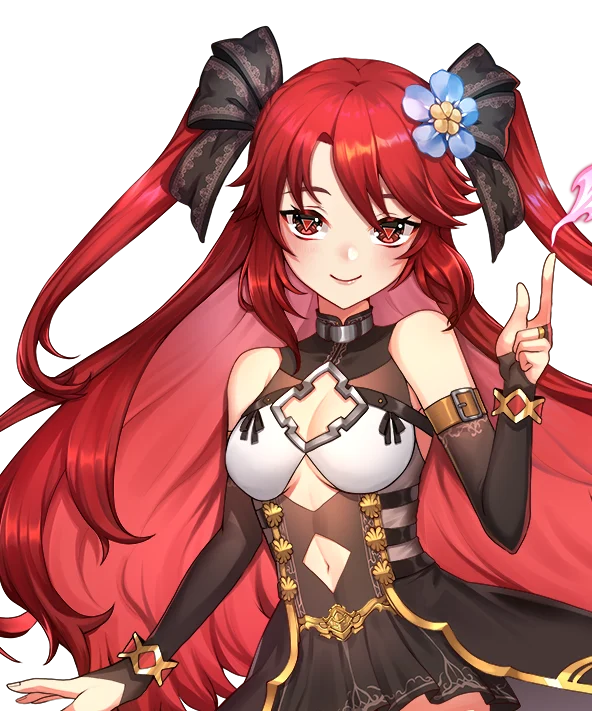
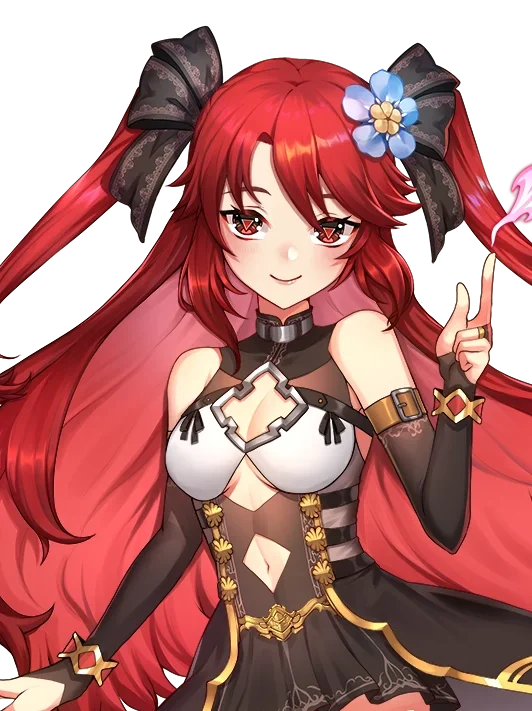
Recentre Luxia face and half-body
Claude-Session: https://claude.ai/code/session_0182ETGqkY6VZC2ACV9rE9Mb

diff --git a/index.html b/index.html
@@ -949,7 +949,7 @@ var TALENTS = [
   { id:'hoku', halves:['talent-hoku-half.webp'], card:'talent-hoku-half.webp', img:'talent-hoku.webp?v=3', face:'talent-hoku-face.webp?v=7',  name:'Hoku', short:'Hoku', ini:'HK', type:'VTuber', aff:{name:'Polygon', logo:'logos/polygon-mark.png'}, langs:['th','en'], color:'#E9DFC8', tags:['#Singing','#FreeTalk','#Gaming','#Horror'], works:['promo','review','cover','collab','dub'], links:[['YouTube',119655,'https://www.youtube.com/@HokuPLG'],['TikTok',35000,'https://www.tiktok.com/@hokuplg'],['Facebook',23440,'http://facebook.com/HokuPolygon'],['X',32083,'http://twitter.com/HokuPLG']], quote:['โฮคุ นกฮูกเปี่ยมไมตรีที่ชอบเรื่องผีและหาทำ','Hoku, a friendly owl who loves ghost stories and always finds something to get into.'] },
   { id:'lucene', halves:['talent-lucene-half.webp'], card:'talent-lucene-half.webp', img:'talent-lucene.webp', face:'talent-lucene-face.webp?v=7',  name:'Lucene', short:'Lucene', ini:'LC', type:'VTuber', aff:{name:'Polygon', logo:'logos/polygon-mark.png'}, langs:['th','en'], color:'#FDE2EE', tags:['#Singing','#FreeTalk','#Gaming','#Gacha'], works:['promo','review','cover','collab','dub'], links:[['YouTube',83400,'https://www.youtube.com/@LucenePLG'],['TikTok',24071,'https://www.tiktok.com/@plglucene'],['Facebook',20102,'https://www.facebook.com/LucenePolygon'],['X',19508,'https://x.com/LucenePLG']], quote:['ลูเซเน่ กระต่ายอนิเมะผู้เสกความสดใสและชอบเสี่ยงดวง💸','Lucene, an anime bunny who conjures up cheer and loves to try her luck 💸'] },
   { id:'lapine', halves:['talent-lapine-half.webp'], card:'talent-lapine-half.webp', img:'talent-lapine.webp', face:'talent-lapine-face.webp?v=7',  name:'Lapine', short:'Lapine', ini:'LP', type:'VTuber', aff:{name:'Polygon', logo:'logos/polygon-mark.png'}, langs:['th','en'], color:'#FFD9E4', tags:['#Singing','#FreeTalk','#Gaming'], works:['promo','review','cover','collab','dub'], links:[['YouTube',69355,'https://www.youtube.com/@LapinePLG'],['TikTok',8885,'https://www.tiktok.com/@lapineplg'],['Facebook',16150,'https://www.facebook.com/LapinePolygon'],['X',20482,'https://x.com/LapinePLG']], quote:['ลาพิเน่ กระต่ายสีชมพูที่คุณดูแล้วต้องกำหมัด','Lapine, the pink bunny so cute you will clench your fists.'] },
-  { id:'luxia', halves:['talent-luxia-half.webp'], card:'talent-luxia-half.webp', img:'talent-luxia.webp?v=3', face:'talent-luxia-face.webp?v=7',  name:'Luxia', short:'Luxia', ini:'LX', type:'VTuber', aff:{name:'Polygon', logo:'logos/polygon-mark.png'}, langs:['th'], color:'#E7E1F7', tags:['#Singing','#FreeTalk','#Gaming','#Drawing'], works:['promo','review','collab','dub'], links:[['YouTube',57079,'https://www.youtube.com/@LuxiaPLG'],['TikTok',15700,'https://www.tiktok.com/@luxiaplg'],['Facebook',12455,'https://www.facebook.com/LuxiaPolygon'],['X',16481,'https://x.com/LuxiaPLG']], quote:['ลูเซีย แม่ชีนักวาดผู้ไม่อาจหยุดความวายป่วง','Luxia, an artist nun who simply cannot stop the chaos.'] },
+  { id:'luxia', halves:['talent-luxia-half.webp?v=2'], card:'talent-luxia-half.webp?v=2', img:'talent-luxia.webp?v=3', face:'talent-luxia-face.webp?v=8',  name:'Luxia', short:'Luxia', ini:'LX', type:'VTuber', aff:{name:'Polygon', logo:'logos/polygon-mark.png'}, langs:['th'], color:'#E7E1F7', tags:['#Singing','#FreeTalk','#Gaming','#Drawing'], works:['promo','review','collab','dub'], links:[['YouTube',57079,'https://www.youtube.com/@LuxiaPLG'],['TikTok',15700,'https://www.tiktok.com/@luxiaplg'],['Facebook',12455,'https://www.facebook.com/LuxiaPolygon'],['X',16481,'https://x.com/LuxiaPLG']], quote:['ลูเซีย แม่ชีนักวาดผู้ไม่อาจหยุดความวายป่วง','Luxia, an artist nun who simply cannot stop the chaos.'] },
   { id:'riona', halves:['talent-riona-half.webp','talent-riona-2-half.webp'], card:'talent-riona-half.webp', img:'talent-riona.webp', face:'talent-riona-face.webp?v=7', forms:['talent-riona.webp','talent-riona-2.webp'],  name:'Riona', short:'Riona', ini:'RN', type:'VTuber', aff:{name:'Polygon', logo:'logos/polygon-mark.png'}, langs:['th','en'], color:'#FFE7C7', tags:['#Singing','#FreeTalk','#Gaming','#RolePlay'], works:['promo','review','collab','dub'], links:[['YouTube',16208,'https://www.youtube.com/@RionaPLG'],['TikTok',4081,'https://www.tiktok.com/@rionaplg'],['Facebook',10980,'https://www.facebook.com/RionaPolygon'],['X',4583,'https://x.com/RionaPLG']], quote:['เสือ สวย รวย และน่าน้วยก็ได้ ประธานนักเรียนรุ่นที่ 10 โรงเรียน PLG ริโอน่า สวัสดีค่ะ','A tiger: pretty, rich, and cuddly if you like. Hello, I am Riona, 10th student council president of PLG School!'] },
   { id:'anya', halves:['talent-anya-half.webp','talent-anya-2-half.webp'], card:'talent-anya-half.webp', img:'talent-anya.webp?v=2', face:'talent-anya-face.webp?v=7', forms:['talent-anya.webp?v=2','talent-anya-2.webp'],  name:'Anya', short:'Anya', ini:'AY', type:'VTuber', aff:{name:'Polygon', logo:'logos/polygon-mark.png'}, langs:['th'], color:'#DCEFE3', tags:['#Singing','#FreeTalk','#Gaming','#HandCam'], works:['promo','review','collab','dub'], links:[['YouTube',19635,'https://www.youtube.com/@AnyaPLG'],['TikTok',8095,'https://www.tiktok.com/@anyaplg'],['Facebook',7139,'https://www.facebook.com/AnyaPolygon'],['X',4071,'https://x.com/AnyaPLG']], quote:['ลึกแต่ไม่ลับ คับแต่ไม่แคบ ไม่ใช่แค่ช้าง แต่เป็นแมมมอธ แฮ่ !','Deep but no secrets, packed but never cramped. Not just an elephant, a mammoth. Rawr!'] },
   { id:'monace', halves:['talent-monace-half.webp'], card:'talent-monace-half.webp', img:'talent-monace.webp', face:'talent-monace-face.webp?v=7',  name:'Monace', short:'Monace', ini:'MN', type:'VTuber', aff:{name:'Polygon', logo:'logos/polygon-mark.png'}, langs:['th','en'], color:'#D9E4F5', tags:['#Singing','#FreeTalk','#Gaming','#SongComposer'], works:['promo','review','cover','collab','dub'], links:[['YouTube',2608,'https://www.youtube.com/@MONACEPLG'],['TikTok',1735,'https://www.tiktok.com/@monaceplg'],['Facebook',558,'https://www.facebook.com/MONACEPLG'],['X',1477,'https://x.com/MONACEPLG']], quote:['แรปเปอร์ตัวตึงอาจจะดูเท่ แต่ใจดี พร้อมอยู่ข้างๆ ให้คุณรู้สึกสบายใจเสมอ โซโล โมเนซ ครับ 🪽','A rapper who may look tough but has a kind heart, always by your side to put you at ease. Solo Monace here 🪽'] },
